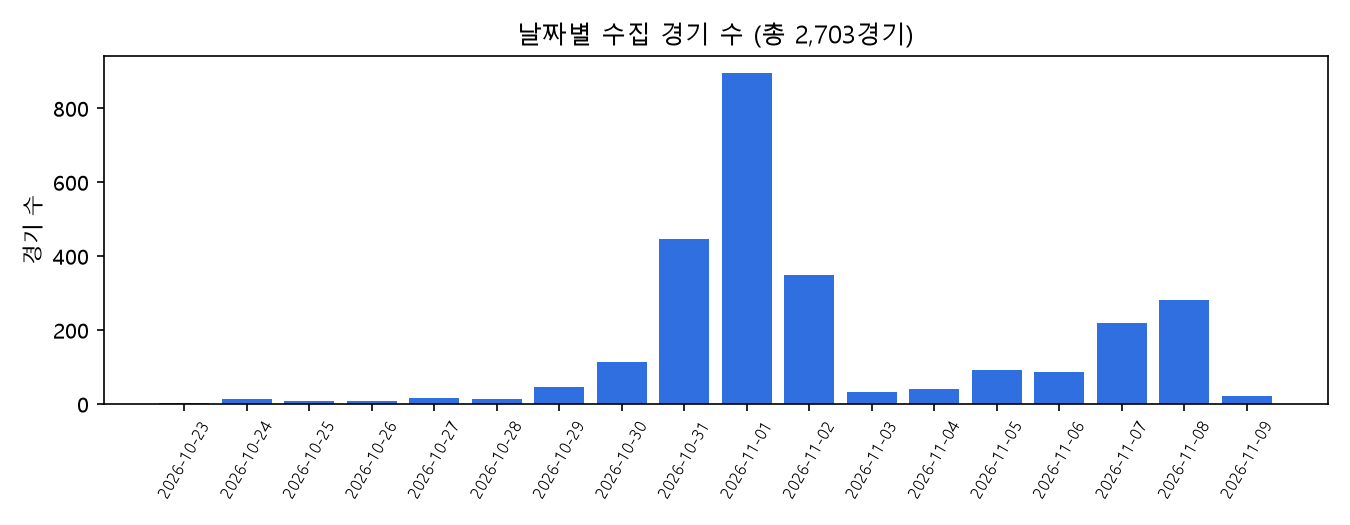
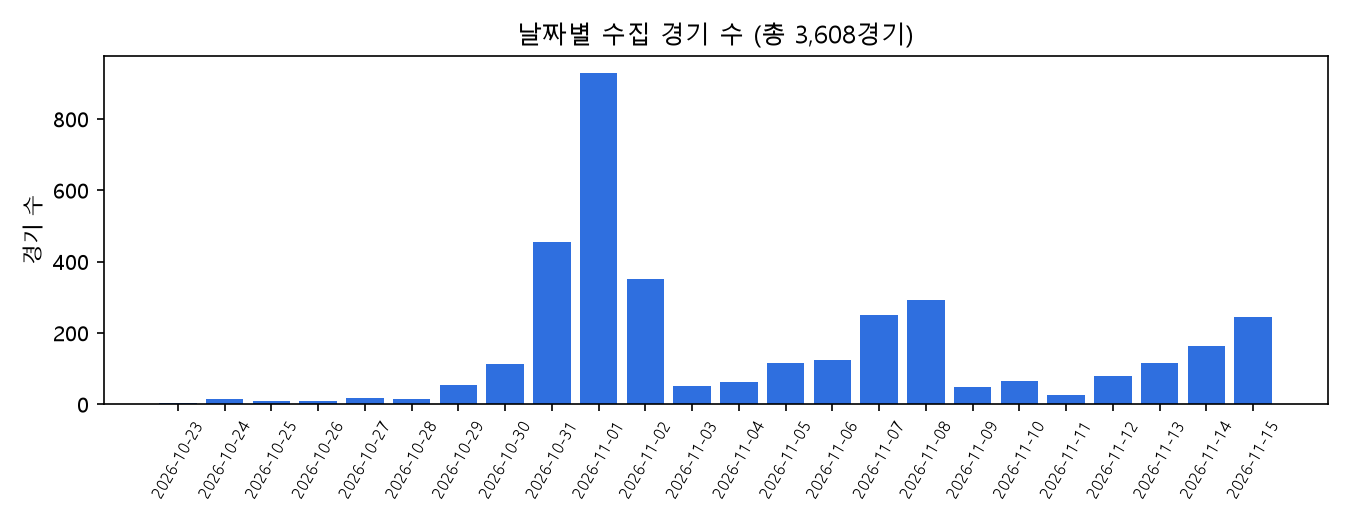
데이터 3,608경기로 갱신 (슈팅 37,382건)

diff --git a/docs/eda_summary.md b/docs/eda_summary.md
@@ -2,70 +2,70 @@
 
 |                  |   mean |   std |   min |    50% |    max |
 |:-----------------|-------:|------:|------:|-------:|-------:|
-| possession       |  50    |  5.24 | 33    |  50    |  67    |
-| shoot_total      |   6.27 |  2.64 |  0    |   6    |  17    |
-| shoot_effective  |   4.89 |  2.26 |  0    |   5    |  15    |
-| pass_try         | 107.69 | 21.91 | 53    | 105    | 219    |
-| pass_rate        |   0.88 |  0.04 |  0.72 |   0.88 |   0.98 |
-| through_pass_try |  16.46 |  7.03 |  1    |  16    |  65    |
-| tackle_try       |  14.88 |  6.1  |  1    |  14    |  48    |
-| goals_for        |   2.7  |  1.51 |  0    |   3    |  10    |
-| goals_against    |   2.7  |  1.51 |  0    |   3    |  10    |
+| possession       |  50    |  5.25 | 22    |  50    |  78    |
+| shoot_total      |   6.31 |  2.64 |  0    |   6    |  18    |
+| shoot_effective  |   4.92 |  2.26 |  0    |   5    |  15    |
+| pass_try         | 107.24 | 22.1  | 37    | 105    | 219    |
+| pass_rate        |   0.88 |  0.04 |  0.71 |   0.88 |   0.98 |
+| through_pass_try |  16.16 |  6.96 |  1    |  15    |  65    |
+| tackle_try       |  15    |  6.05 |  1    |  14    |  48    |
+| goals_for        |   2.72 |  1.51 |  0    |   3    |  10    |
+| goals_against    |   2.72 |  1.51 |  0    |   3    |  10    |
 
 ### 원본 결측치
 
 |                      |   결측 건수 |
 |:---------------------|--------:|
-| division             |    2540 |
-| division_name        |    2540 |
-| controller           |      78 |
-| goals_for            |      78 |
-| goals_against        |      78 |
-| possession           |      78 |
-| average_rating       |      78 |
-| foul                 |      78 |
-| yellow_cards         |      78 |
-| red_cards            |      78 |
-| corner_kick          |      78 |
-| offside              |      78 |
-| dribble              |      78 |
-| shoot_total          |      78 |
-| shoot_effective      |      78 |
-| shoot_in_penalty     |      78 |
-| shoot_out_penalty    |      78 |
-| shoot_heading        |      78 |
-| pass_try             |      78 |
-| pass_success         |      78 |
-| short_pass_try       |      78 |
-| short_pass_success   |      78 |
-| long_pass_try        |      78 |
-| long_pass_success    |      78 |
-| through_pass_try     |      78 |
-| through_pass_success |      78 |
-| tackle_try           |      78 |
-| tackle_success       |      78 |
-| block_try            |      78 |
-| block_success        |      78 |
-| opp_shoot_total      |      78 |
-| opp_shoot_effective  |      78 |
+| division             |    3377 |
+| division_name        |    3377 |
+| controller           |     111 |
+| goals_for            |     111 |
+| goals_against        |     111 |
+| possession           |     111 |
+| average_rating       |     111 |
+| foul                 |     111 |
+| yellow_cards         |     111 |
+| red_cards            |     111 |
+| corner_kick          |     111 |
+| offside              |     111 |
+| dribble              |     111 |
+| shoot_total          |     111 |
+| shoot_effective      |     111 |
+| shoot_in_penalty     |     111 |
+| shoot_out_penalty    |     111 |
+| shoot_heading        |     111 |
+| pass_try             |     111 |
+| pass_success         |     111 |
+| short_pass_try       |     111 |
+| short_pass_success   |     111 |
+| long_pass_try        |     111 |
+| long_pass_success    |     111 |
+| through_pass_try     |     111 |
+| through_pass_success |     111 |
+| tackle_try           |     111 |
+| tackle_success       |     111 |
+| block_try            |     111 |
+| block_success        |     111 |
+| opp_shoot_total      |     111 |
+| opp_shoot_effective  |     111 |
 
 ### 승리와 상관이 큰 지표 상위 5개
 
 |                     |   |상관계수| |
 |:--------------------|---------:|
-| shoot_effective     |    0.409 |
-| opp_shoot_effective |    0.409 |
-| opp_shoot_total     |    0.346 |
-| shoot_total         |    0.346 |
+| shoot_effective     |    0.405 |
+| opp_shoot_effective |    0.405 |
+| opp_shoot_total     |    0.342 |
+| shoot_total         |    0.342 |
 | possession          |    0.272 |
 
 ### 슈팅 거리별 골 성공률
 
 | dist_bin    |   골 성공률(%) |   슈팅 수 |
 |:------------|-----------:|-------:|
-| (0.0, 0.05] |       81.9 |    204 |
-| (0.05, 0.1] |       62.9 |   5226 |
-| (0.1, 0.15] |       50.2 |  10355 |
-| (0.15, 0.2] |       32.5 |   8093 |
-| (0.2, 0.3]  |       20.9 |   3266 |
-| (0.3, 1.5]  |        4.5 |    695 |
+| (0.0, 0.05] |       82.5 |    280 |
+| (0.05, 0.1] |       63.1 |   6906 |
+| (0.1, 0.15] |       50.4 |  13912 |
+| (0.15, 0.2] |       32.8 |  10841 |
+| (0.2, 0.3]  |       20.3 |   4465 |
+| (0.3, 1.5]  |        4.7 |    978 |
